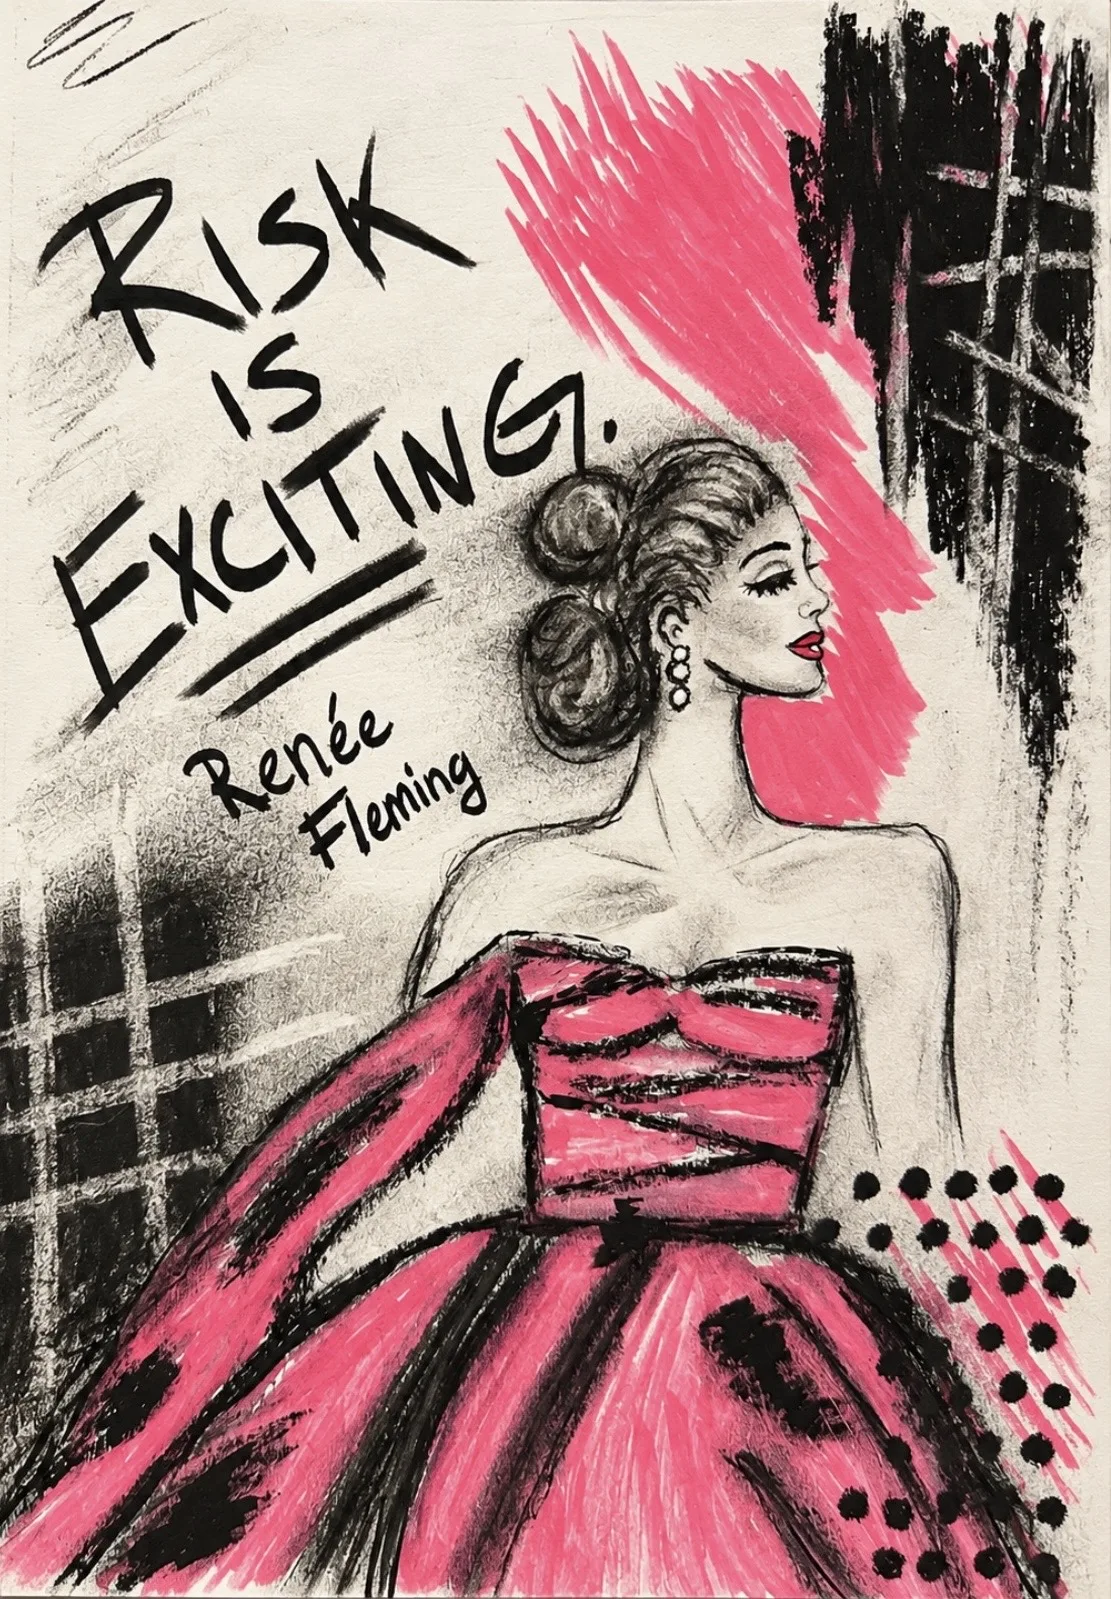
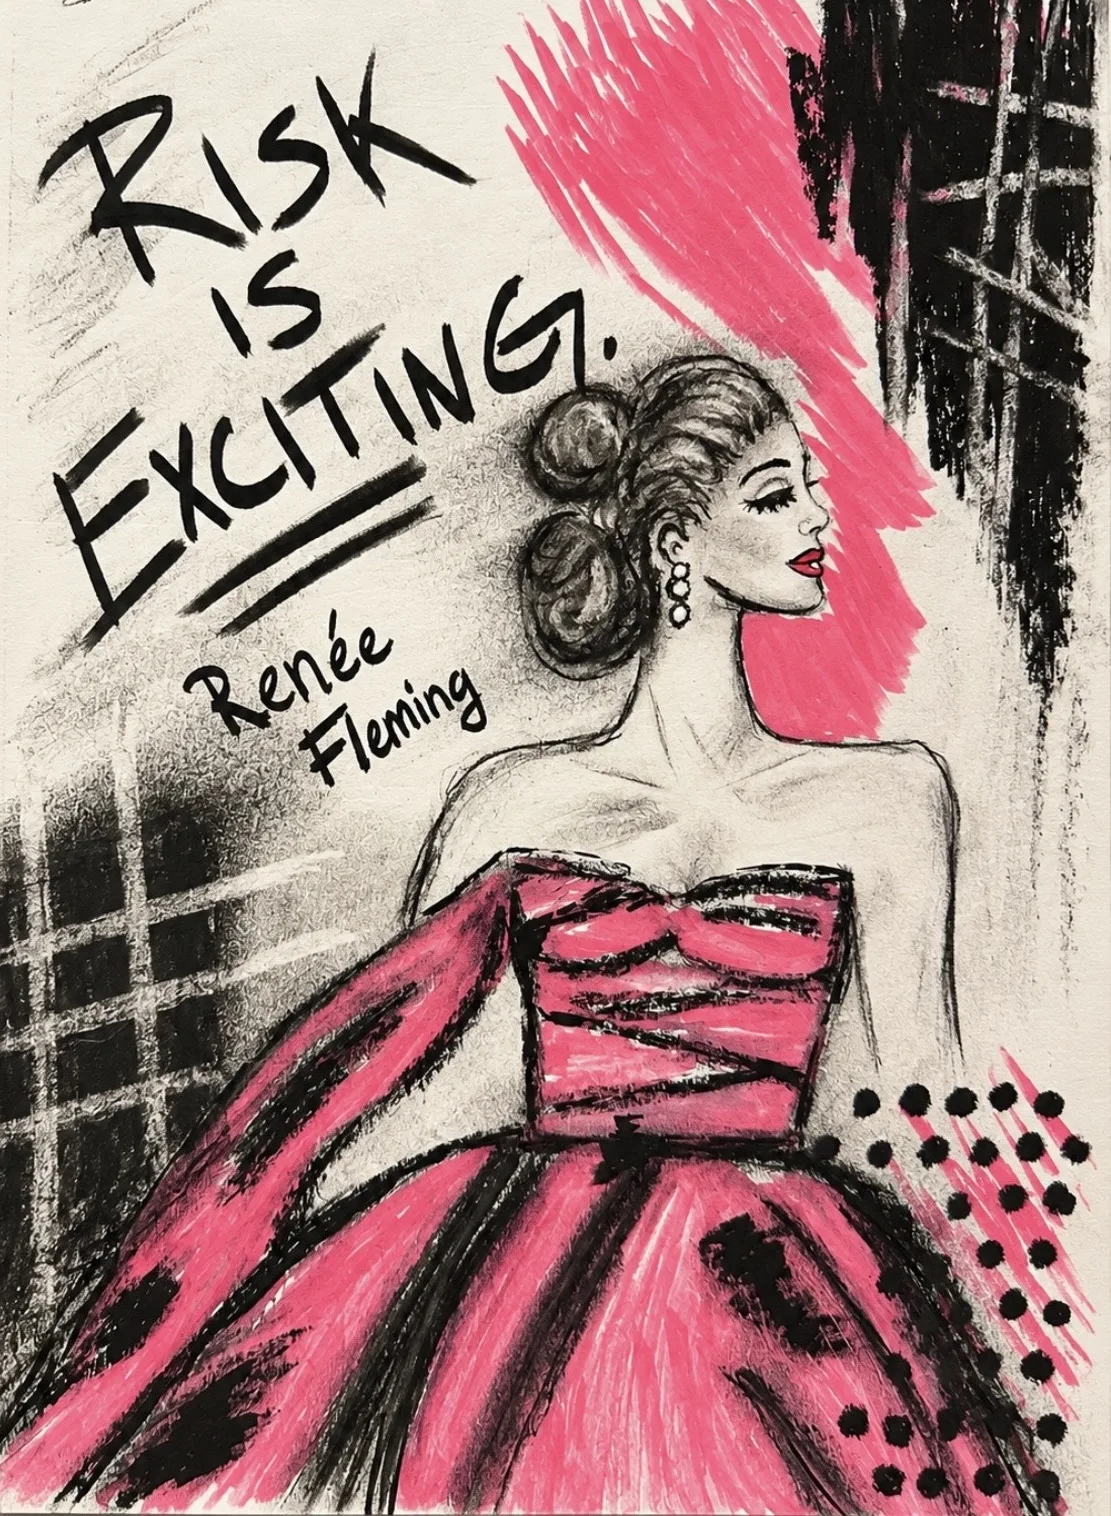
Number the singer illustrations; crop Diva to match
Title the Fleming piece "01 Diva" and number the DiDonato piece "02";
crop the top of the Diva image so it matches the DiDonato aspect ratio.

diff --git a/content/artworks.ts b/content/artworks.ts
@@ -60,12 +60,13 @@ export const artworks: Artwork[] = [
   },
   {
     id: "fleming",
-    title: "Renée Fleming",
+    title: "Diva",
+    seq: "01",
     medium: "Mixed media",
     note: "“Risk is exciting.”",
     image: "/art/fleming.webp",
     width: 1111,
-    height: 1599,
+    height: 1516,
     alt: "Mixed-media illustration of a soprano in a strapless magenta gown, seen in profile with an upswept bun, against black cross-hatching and bright pink brushstrokes; the hand-lettered words “Risk is exciting.” and the name Renée Fleming fill the upper left.",
     collection: "Illustrations",
     order: 1.2,
@@ -74,6 +75,7 @@ export const artworks: Artwork[] = [
   {
     id: "didonato",
     title: "Joyce DiDonato",
+    seq: "02",
     medium: "Mixed media",
     note: "“I can’t bear to lie to an audience.”",
     image: "/art/didonato.webp",
